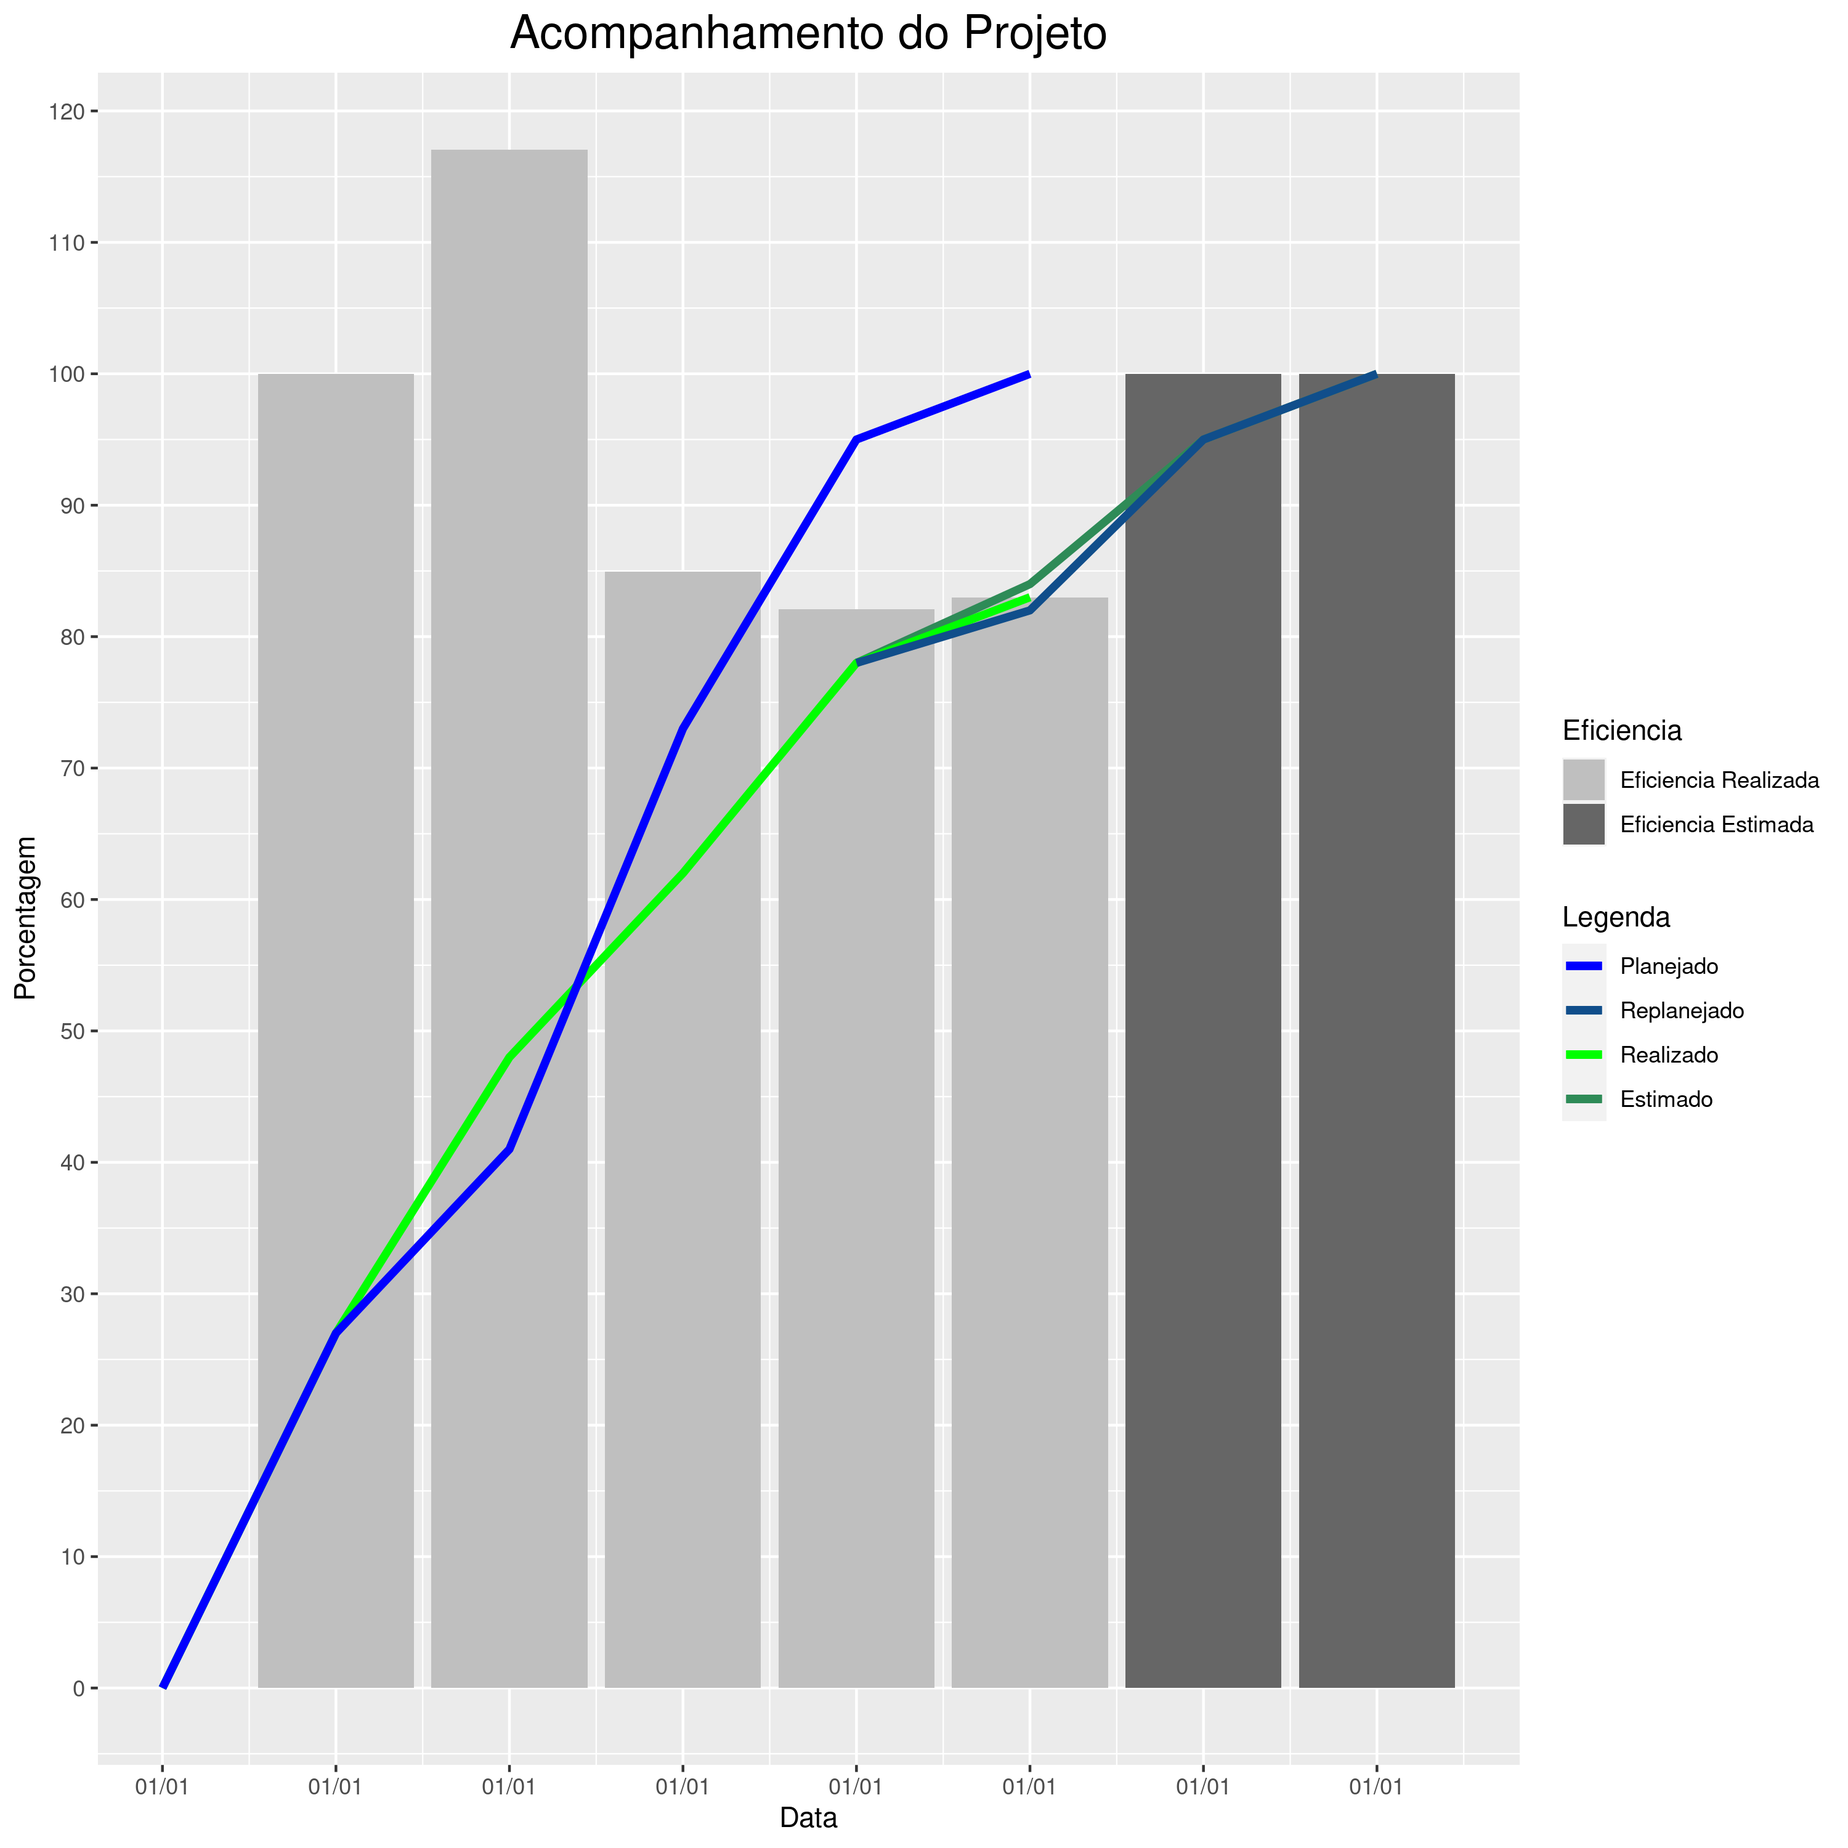
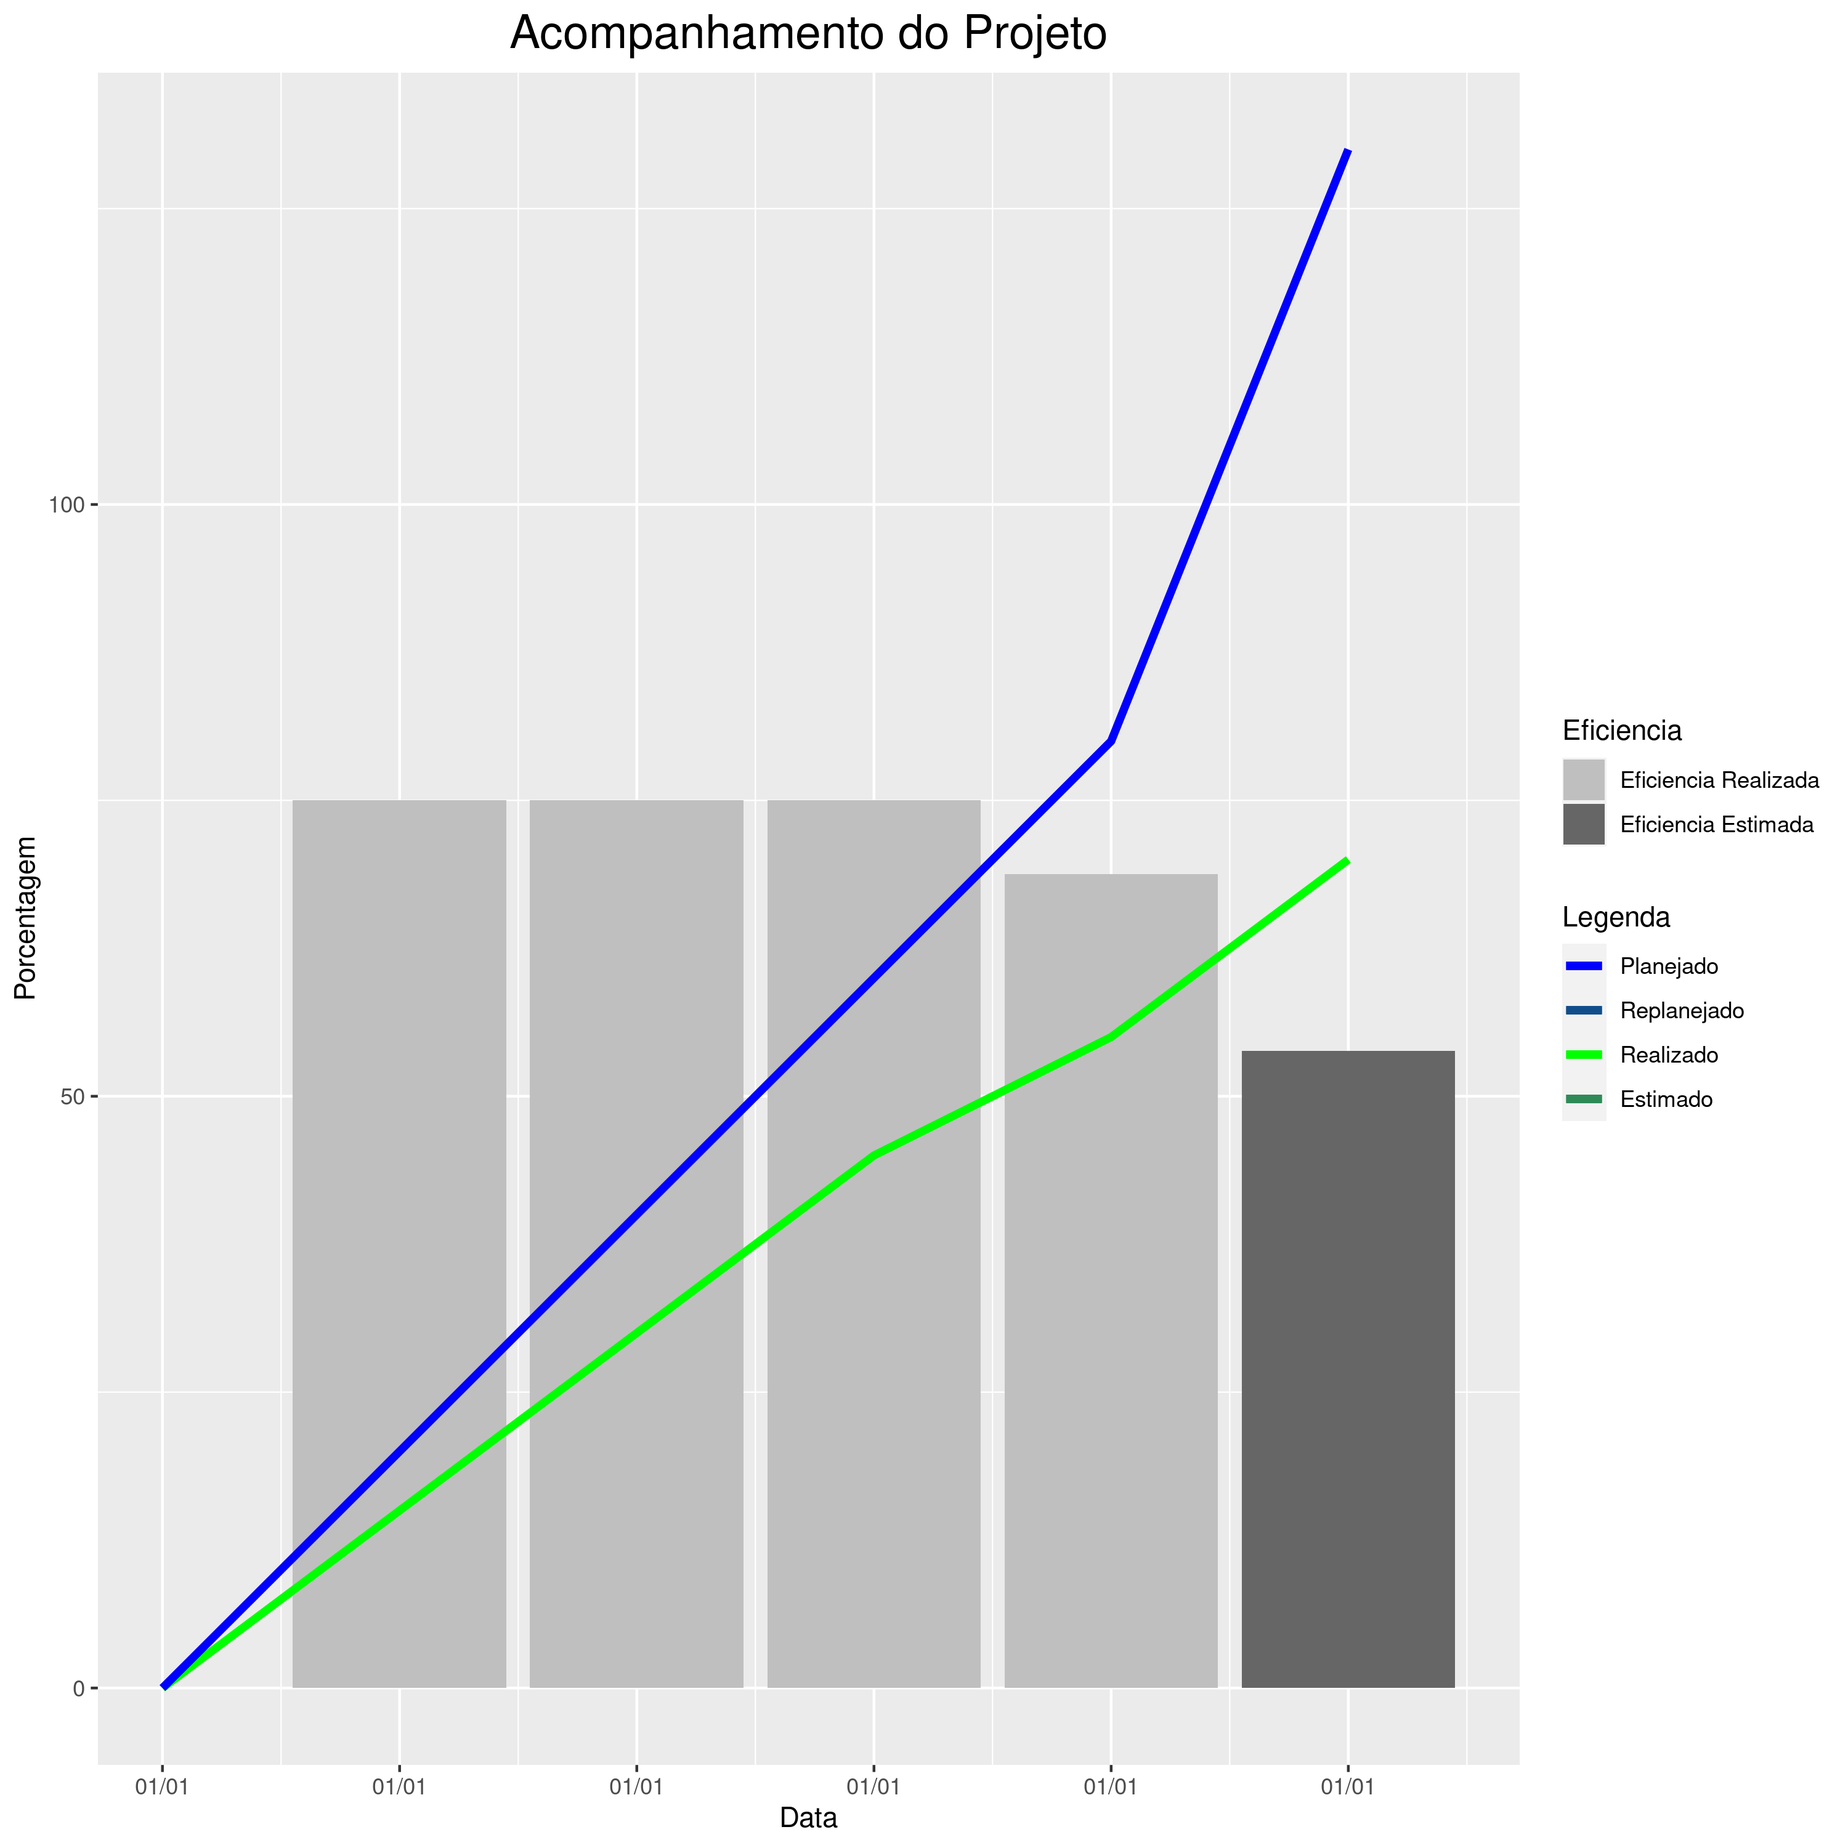
begin

diff --git a/output/graph.tex b/output/graph.tex
@@ -1,4 +1,4 @@
-% Created by tikzDevice version 0.12.3.1 on 2022-05-02 14:28:11
+% Created by tikzDevice version 0.12.3.1 on 2022-05-05 15:47:27
 % !TEX encoding = UTF-8 Unicode
 \begin{tikzpicture}[x=1pt,y=1pt]
 \definecolor{fillColor}{RGB}{255,255,255}
@@ -17,175 +17,89 @@
 \path[fill=fillColor] ( 36.11, 30.69) rectangle (598.26,695.80);
 \definecolor{drawColor}{RGB}{255,255,255}
 
-\path[draw=drawColor,line width= 0.3pt,line join=round] ( 36.11, 35.09) --
-	(598.26, 35.09);
+\path[draw=drawColor,line width= 0.3pt,line join=round] ( 36.11,177.20) --
+	(598.26,177.20);
 
-\path[draw=drawColor,line width= 0.3pt,line join=round] ( 36.11, 86.74) --
-	(598.26, 86.74);
+\path[draw=drawColor,line width= 0.3pt,line join=round] ( 36.11,409.76) --
+	(598.26,409.76);
 
-\path[draw=drawColor,line width= 0.3pt,line join=round] ( 36.11,138.39) --
-	(598.26,138.39);
+\path[draw=drawColor,line width= 0.3pt,line join=round] ( 36.11,642.32) --
+	(598.26,642.32);
 
-\path[draw=drawColor,line width= 0.3pt,line join=round] ( 36.11,190.04) --
-	(598.26,190.04);
+\path[draw=drawColor,line width= 0.3pt,line join=round] (108.55, 30.69) --
+	(108.55,695.80);
 
-\path[draw=drawColor,line width= 0.3pt,line join=round] ( 36.11,241.68) --
-	(598.26,241.68);
+\path[draw=drawColor,line width= 0.3pt,line join=round] (202.32, 30.69) --
+	(202.32,695.80);
 
-\path[draw=drawColor,line width= 0.3pt,line join=round] ( 36.11,293.33) --
-	(598.26,293.33);
+\path[draw=drawColor,line width= 0.3pt,line join=round] (296.09, 30.69) --
+	(296.09,695.80);
 
-\path[draw=drawColor,line width= 0.3pt,line join=round] ( 36.11,344.98) --
-	(598.26,344.98);
+\path[draw=drawColor,line width= 0.3pt,line join=round] (389.86, 30.69) --
+	(389.86,695.80);
 
-\path[draw=drawColor,line width= 0.3pt,line join=round] ( 36.11,396.63) --
-	(598.26,396.63);
+\path[draw=drawColor,line width= 0.3pt,line join=round] (483.63, 30.69) --
+	(483.63,695.80);
 
-\path[draw=drawColor,line width= 0.3pt,line join=round] ( 36.11,448.27) --
-	(598.26,448.27);
-
-\path[draw=drawColor,line width= 0.3pt,line join=round] ( 36.11,499.92) --
-	(598.26,499.92);
-
-\path[draw=drawColor,line width= 0.3pt,line join=round] ( 36.11,551.57) --
-	(598.26,551.57);
-
-\path[draw=drawColor,line width= 0.3pt,line join=round] ( 36.11,603.22) --
-	(598.26,603.22);
-
-\path[draw=drawColor,line width= 0.3pt,line join=round] ( 36.11,654.86) --
-	(598.26,654.86);
-
-\path[draw=drawColor,line width= 0.3pt,line join=round] ( 95.96, 30.69) --
-	( 95.96,695.80);
-
-\path[draw=drawColor,line width= 0.3pt,line join=round] (164.56, 30.69) --
-	(164.56,695.80);
-
-\path[draw=drawColor,line width= 0.3pt,line join=round] (233.16, 30.69) --
-	(233.16,695.80);
-
-\path[draw=drawColor,line width= 0.3pt,line join=round] (301.75, 30.69) --
-	(301.75,695.80);
-
-\path[draw=drawColor,line width= 0.3pt,line join=round] (370.35, 30.69) --
-	(370.35,695.80);
-
-\path[draw=drawColor,line width= 0.3pt,line join=round] (438.95, 30.69) --
-	(438.95,695.80);
-
-\path[draw=drawColor,line width= 0.3pt,line join=round] (507.54, 30.69) --
-	(507.54,695.80);
-
-\path[draw=drawColor,line width= 0.3pt,line join=round] (576.14, 30.69) --
-	(576.14,695.80);
+\path[draw=drawColor,line width= 0.3pt,line join=round] (577.40, 30.69) --
+	(577.40,695.80);
 
 \path[draw=drawColor,line width= 0.6pt,line join=round] ( 36.11, 60.92) --
 	(598.26, 60.92);
 
-\path[draw=drawColor,line width= 0.6pt,line join=round] ( 36.11,112.57) --
-	(598.26,112.57);
+\path[draw=drawColor,line width= 0.6pt,line join=round] ( 36.11,293.48) --
+	(598.26,293.48);
 
-\path[draw=drawColor,line width= 0.6pt,line join=round] ( 36.11,164.21) --
-	(598.26,164.21);
-
-\path[draw=drawColor,line width= 0.6pt,line join=round] ( 36.11,215.86) --
-	(598.26,215.86);
-
-\path[draw=drawColor,line width= 0.6pt,line join=round] ( 36.11,267.51) --
-	(598.26,267.51);
-
-\path[draw=drawColor,line width= 0.6pt,line join=round] ( 36.11,319.16) --
-	(598.26,319.16);
-
-\path[draw=drawColor,line width= 0.6pt,line join=round] ( 36.11,370.80) --
-	(598.26,370.80);
-
-\path[draw=drawColor,line width= 0.6pt,line join=round] ( 36.11,422.45) --
-	(598.26,422.45);
-
-\path[draw=drawColor,line width= 0.6pt,line join=round] ( 36.11,474.10) --
-	(598.26,474.10);
-
-\path[draw=drawColor,line width= 0.6pt,line join=round] ( 36.11,525.75) --
-	(598.26,525.75);
-
-\path[draw=drawColor,line width= 0.6pt,line join=round] ( 36.11,577.39) --
-	(598.26,577.39);
-
-\path[draw=drawColor,line width= 0.6pt,line join=round] ( 36.11,629.04) --
-	(598.26,629.04);
-
-\path[draw=drawColor,line width= 0.6pt,line join=round] ( 36.11,680.69) --
-	(598.26,680.69);
+\path[draw=drawColor,line width= 0.6pt,line join=round] ( 36.11,526.04) --
+	(598.26,526.04);
 
 \path[draw=drawColor,line width= 0.6pt,line join=round] ( 61.66, 30.69) --
 	( 61.66,695.80);
 
-\path[draw=drawColor,line width= 0.6pt,line join=round] (130.26, 30.69) --
-	(130.26,695.80);
+\path[draw=drawColor,line width= 0.6pt,line join=round] (155.43, 30.69) --
+	(155.43,695.80);
 
-\path[draw=drawColor,line width= 0.6pt,line join=round] (198.86, 30.69) --
-	(198.86,695.80);
+\path[draw=drawColor,line width= 0.6pt,line join=round] (249.20, 30.69) --
+	(249.20,695.80);
 
-\path[draw=drawColor,line width= 0.6pt,line join=round] (267.45, 30.69) --
-	(267.45,695.80);
+\path[draw=drawColor,line width= 0.6pt,line join=round] (342.97, 30.69) --
+	(342.97,695.80);
 
-\path[draw=drawColor,line width= 0.6pt,line join=round] (336.05, 30.69) --
-	(336.05,695.80);
+\path[draw=drawColor,line width= 0.6pt,line join=round] (436.74, 30.69) --
+	(436.74,695.80);
 
-\path[draw=drawColor,line width= 0.6pt,line join=round] (404.65, 30.69) --
-	(404.65,695.80);
-
-\path[draw=drawColor,line width= 0.6pt,line join=round] (473.25, 30.69) --
-	(473.25,695.80);
-
-\path[draw=drawColor,line width= 0.6pt,line join=round] (541.84, 30.69) --
-	(541.84,695.80);
+\path[draw=drawColor,line width= 0.6pt,line join=round] (530.52, 30.69) --
+	(530.52,695.80);
 \definecolor{fillColor}{gray}{0.75}
 
-\path[fill=fillColor] ( 99.39, 60.92) rectangle (161.13,577.39);
+\path[fill=fillColor] (113.24, 60.92) rectangle (197.63,409.76);
 
-\path[fill=fillColor] (167.99, 60.92) rectangle (229.73,665.57);
+\path[fill=fillColor] (207.01, 60.92) rectangle (291.40,409.76);
 
-\path[fill=fillColor] (236.59, 60.92) rectangle (298.32,499.57);
+\path[fill=fillColor] (300.78, 60.92) rectangle (385.17,409.76);
 
-\path[fill=fillColor] (305.18, 60.92) rectangle (366.92,484.97);
+\path[fill=fillColor] (394.55, 60.92) rectangle (478.94,380.69);
 
-\path[fill=fillColor] (373.78, 60.92) rectangle (435.52,489.59);
+\path[fill=fillColor] (488.32, 60.92) rectangle (572.71,311.37);
 \definecolor{fillColor}{gray}{0.40}
 
-\path[fill=fillColor] (442.38, 60.92) rectangle (504.11,577.39);
-
-\path[fill=fillColor] (510.97, 60.92) rectangle (572.71,577.39);
-\definecolor{drawColor}{RGB}{46,139,87}
-
-\path[draw=drawColor,line width= 1.7pt,line join=round] (336.05,463.77) --
-	(404.65,494.76) --
-	(473.25,551.57) --
-	(541.84,577.39);
+\path[fill=fillColor] (488.32, 60.92) rectangle (572.71,311.37);
 \definecolor{drawColor}{RGB}{0,255,0}
 
 \path[draw=drawColor,line width= 1.7pt,line join=round] ( 61.66, 60.92) --
-	(130.26,200.37) --
-	(198.86,308.83) --
-	(267.45,381.13) --
-	(336.05,463.77) --
-	(404.65,489.59);
+	(155.43,130.69) --
+	(249.20,200.45) --
+	(342.97,270.22) --
+	(436.74,316.73) --
+	(530.52,386.50);
 \definecolor{drawColor}{RGB}{0,0,255}
 
 \path[draw=drawColor,line width= 1.7pt,line join=round] ( 61.66, 60.92) --
-	(130.26,200.37) --
-	(198.86,272.67) --
-	(267.45,437.94) --
-	(336.05,551.57) --
-	(404.65,577.39);
-\definecolor{drawColor}{RGB}{16,78,139}
-
-\path[draw=drawColor,line width= 1.7pt,line join=round] (336.05,463.77) --
-	(404.65,484.43) --
-	(473.25,551.57) --
-	(541.84,577.39);
+	(155.43,153.94) --
+	(249.20,246.97) --
+	(342.97,339.99) --
+	(436.74,433.01) --
+	(530.52,665.57);
 \end{scope}
 \begin{scope}
 \path[clip] (  0.00,  0.00) rectangle (722.70,722.70);
@@ -193,29 +107,9 @@
 
 \node[text=drawColor,anchor=base east,inner sep=0pt, outer sep=0pt, scale=  0.88] at ( 31.16, 57.89) {0};
 
-\node[text=drawColor,anchor=base east,inner sep=0pt, outer sep=0pt, scale=  0.88] at ( 31.16,109.54) {10};
+\node[text=drawColor,anchor=base east,inner sep=0pt, outer sep=0pt, scale=  0.88] at ( 31.16,290.45) {50};
 
-\node[text=drawColor,anchor=base east,inner sep=0pt, outer sep=0pt, scale=  0.88] at ( 31.16,161.18) {20};
-
-\node[text=drawColor,anchor=base east,inner sep=0pt, outer sep=0pt, scale=  0.88] at ( 31.16,212.83) {30};
-
-\node[text=drawColor,anchor=base east,inner sep=0pt, outer sep=0pt, scale=  0.88] at ( 31.16,264.48) {40};
-
-\node[text=drawColor,anchor=base east,inner sep=0pt, outer sep=0pt, scale=  0.88] at ( 31.16,316.13) {50};
-
-\node[text=drawColor,anchor=base east,inner sep=0pt, outer sep=0pt, scale=  0.88] at ( 31.16,367.77) {60};
-
-\node[text=drawColor,anchor=base east,inner sep=0pt, outer sep=0pt, scale=  0.88] at ( 31.16,419.42) {70};
-
-\node[text=drawColor,anchor=base east,inner sep=0pt, outer sep=0pt, scale=  0.88] at ( 31.16,471.07) {80};
-
-\node[text=drawColor,anchor=base east,inner sep=0pt, outer sep=0pt, scale=  0.88] at ( 31.16,522.71) {90};
-
-\node[text=drawColor,anchor=base east,inner sep=0pt, outer sep=0pt, scale=  0.88] at ( 31.16,574.36) {100};
-
-\node[text=drawColor,anchor=base east,inner sep=0pt, outer sep=0pt, scale=  0.88] at ( 31.16,626.01) {110};
-
-\node[text=drawColor,anchor=base east,inner sep=0pt, outer sep=0pt, scale=  0.88] at ( 31.16,677.66) {120};
+\node[text=drawColor,anchor=base east,inner sep=0pt, outer sep=0pt, scale=  0.88] at ( 31.16,523.01) {100};
 \end{scope}
 \begin{scope}
 \path[clip] (  0.00,  0.00) rectangle (722.70,722.70);
@@ -224,41 +118,11 @@
 \path[draw=drawColor,line width= 0.6pt,line join=round] ( 33.36, 60.92) --
 	( 36.11, 60.92);
 
-\path[draw=drawColor,line width= 0.6pt,line join=round] ( 33.36,112.57) --
-	( 36.11,112.57);
+\path[draw=drawColor,line width= 0.6pt,line join=round] ( 33.36,293.48) --
+	( 36.11,293.48);
 
-\path[draw=drawColor,line width= 0.6pt,line join=round] ( 33.36,164.21) --
-	( 36.11,164.21);
-
-\path[draw=drawColor,line width= 0.6pt,line join=round] ( 33.36,215.86) --
-	( 36.11,215.86);
-
-\path[draw=drawColor,line width= 0.6pt,line join=round] ( 33.36,267.51) --
-	( 36.11,267.51);
-
-\path[draw=drawColor,line width= 0.6pt,line join=round] ( 33.36,319.16) --
-	( 36.11,319.16);
-
-\path[draw=drawColor,line width= 0.6pt,line join=round] ( 33.36,370.80) --
-	( 36.11,370.80);
-
-\path[draw=drawColor,line width= 0.6pt,line join=round] ( 33.36,422.45) --
-	( 36.11,422.45);
-
-\path[draw=drawColor,line width= 0.6pt,line join=round] ( 33.36,474.10) --
-	( 36.11,474.10);
-
-\path[draw=drawColor,line width= 0.6pt,line join=round] ( 33.36,525.75) --
-	( 36.11,525.75);
-
-\path[draw=drawColor,line width= 0.6pt,line join=round] ( 33.36,577.39) --
-	( 36.11,577.39);
-
-\path[draw=drawColor,line width= 0.6pt,line join=round] ( 33.36,629.04) --
-	( 36.11,629.04);
-
-\path[draw=drawColor,line width= 0.6pt,line join=round] ( 33.36,680.69) --
-	( 36.11,680.69);
+\path[draw=drawColor,line width= 0.6pt,line join=round] ( 33.36,526.04) --
+	( 36.11,526.04);
 \end{scope}
 \begin{scope}
 \path[clip] (  0.00,  0.00) rectangle (722.70,722.70);
@@ -267,26 +131,20 @@
 \path[draw=drawColor,line width= 0.6pt,line join=round] ( 61.66, 27.94) --
 	( 61.66, 30.69);
 
-\path[draw=drawColor,line width= 0.6pt,line join=round] (130.26, 27.94) --
-	(130.26, 30.69);
+\path[draw=drawColor,line width= 0.6pt,line join=round] (155.43, 27.94) --
+	(155.43, 30.69);
 
-\path[draw=drawColor,line width= 0.6pt,line join=round] (198.86, 27.94) --
-	(198.86, 30.69);
+\path[draw=drawColor,line width= 0.6pt,line join=round] (249.20, 27.94) --
+	(249.20, 30.69);
 
-\path[draw=drawColor,line width= 0.6pt,line join=round] (267.45, 27.94) --
-	(267.45, 30.69);
+\path[draw=drawColor,line width= 0.6pt,line join=round] (342.97, 27.94) --
+	(342.97, 30.69);
 
-\path[draw=drawColor,line width= 0.6pt,line join=round] (336.05, 27.94) --
-	(336.05, 30.69);
+\path[draw=drawColor,line width= 0.6pt,line join=round] (436.74, 27.94) --
+	(436.74, 30.69);
 
-\path[draw=drawColor,line width= 0.6pt,line join=round] (404.65, 27.94) --
-	(404.65, 30.69);
-
-\path[draw=drawColor,line width= 0.6pt,line join=round] (473.25, 27.94) --
-	(473.25, 30.69);
-
-\path[draw=drawColor,line width= 0.6pt,line join=round] (541.84, 27.94) --
-	(541.84, 30.69);
+\path[draw=drawColor,line width= 0.6pt,line join=round] (530.52, 27.94) --
+	(530.52, 30.69);
 \end{scope}
 \begin{scope}
 \path[clip] (  0.00,  0.00) rectangle (722.70,722.70);
@@ -294,19 +152,15 @@
 
 \node[text=drawColor,anchor=base,inner sep=0pt, outer sep=0pt, scale=  0.88] at ( 61.66, 19.68) {01/01};
 
-\node[text=drawColor,anchor=base,inner sep=0pt, outer sep=0pt, scale=  0.88] at (130.26, 19.68) {01/01};
+\node[text=drawColor,anchor=base,inner sep=0pt, outer sep=0pt, scale=  0.88] at (155.43, 19.68) {01/01};
 
-\node[text=drawColor,anchor=base,inner sep=0pt, outer sep=0pt, scale=  0.88] at (198.86, 19.68) {01/01};
+\node[text=drawColor,anchor=base,inner sep=0pt, outer sep=0pt, scale=  0.88] at (249.20, 19.68) {01/01};
 
-\node[text=drawColor,anchor=base,inner sep=0pt, outer sep=0pt, scale=  0.88] at (267.45, 19.68) {01/01};
+\node[text=drawColor,anchor=base,inner sep=0pt, outer sep=0pt, scale=  0.88] at (342.97, 19.68) {01/01};
 
-\node[text=drawColor,anchor=base,inner sep=0pt, outer sep=0pt, scale=  0.88] at (336.05, 19.68) {01/01};
+\node[text=drawColor,anchor=base,inner sep=0pt, outer sep=0pt, scale=  0.88] at (436.74, 19.68) {01/01};
 
-\node[text=drawColor,anchor=base,inner sep=0pt, outer sep=0pt, scale=  0.88] at (404.65, 19.68) {01/01};
-
-\node[text=drawColor,anchor=base,inner sep=0pt, outer sep=0pt, scale=  0.88] at (473.25, 19.68) {01/01};
-
-\node[text=drawColor,anchor=base,inner sep=0pt, outer sep=0pt, scale=  0.88] at (541.84, 19.68) {01/01};
+\node[text=drawColor,anchor=base,inner sep=0pt, outer sep=0pt, scale=  0.88] at (530.52, 19.68) {01/01};
 \end{scope}
 \begin{scope}
 \path[clip] (  0.00,  0.00) rectangle (722.70,722.70);
